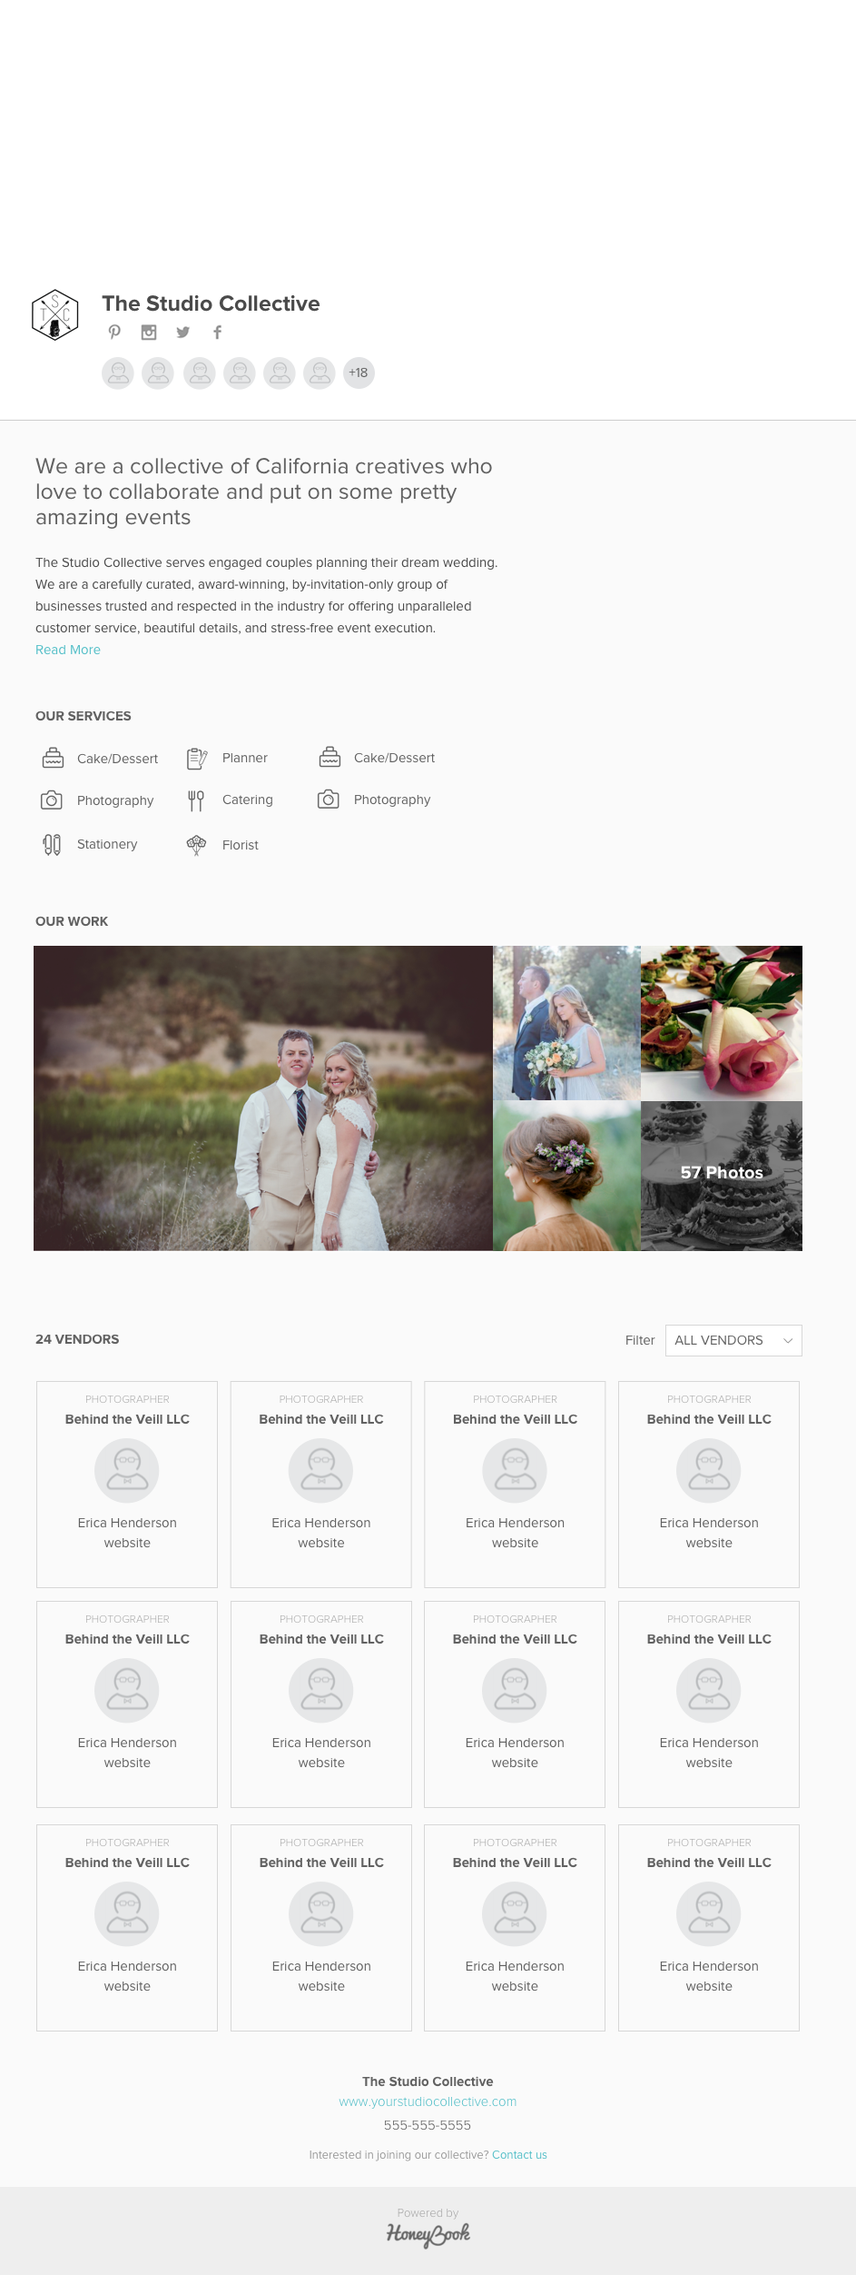
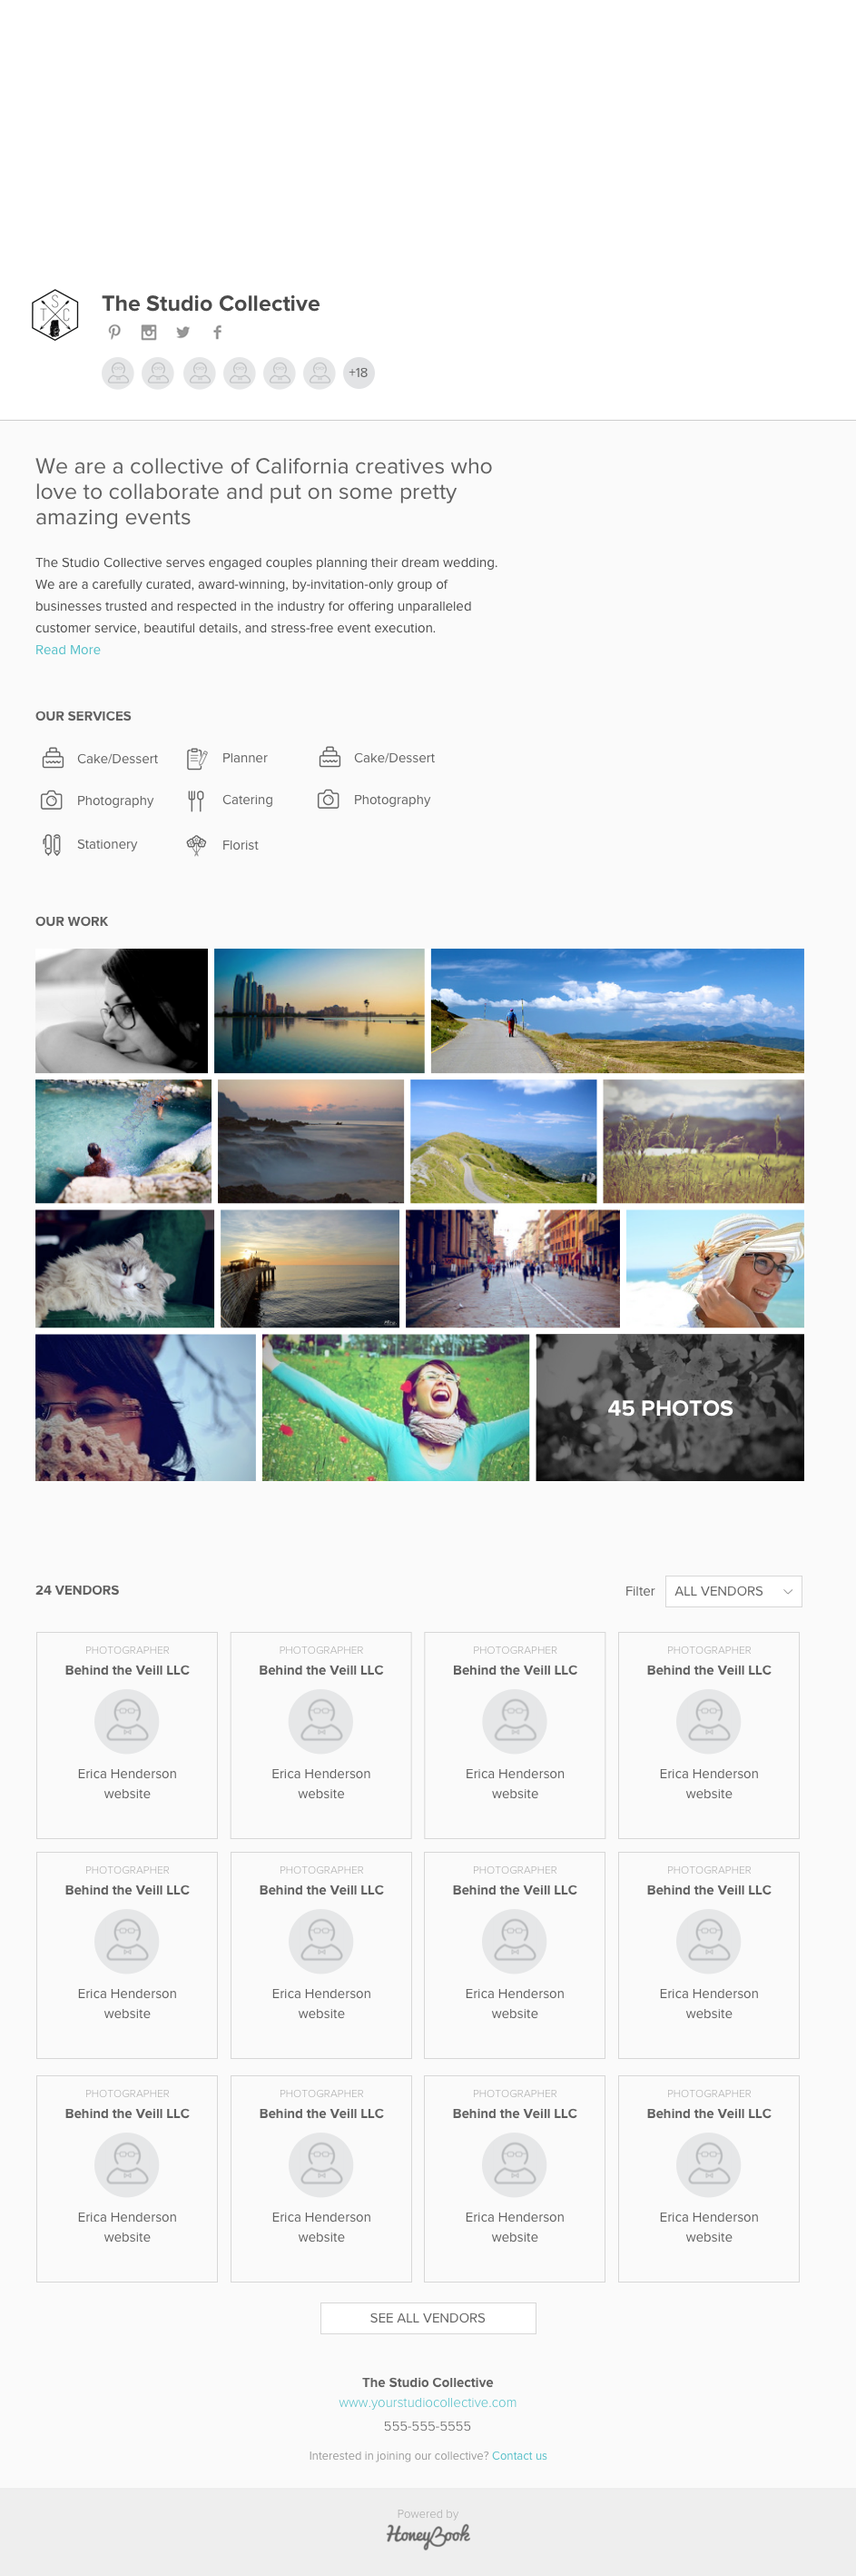
updating collective public page design

diff --git a/collectives/collective-public-prototype/style.css b/collectives/collective-public-prototype/style.css
@@ -11,7 +11,7 @@ body {
 #main {
 	background: url('images/bg.png') no-repeat;
 	width: 943px;
-	height: 2504px;
+	height: 2835px;
 	margin: -1px auto 0 auto;
 	position: relative;
 }
